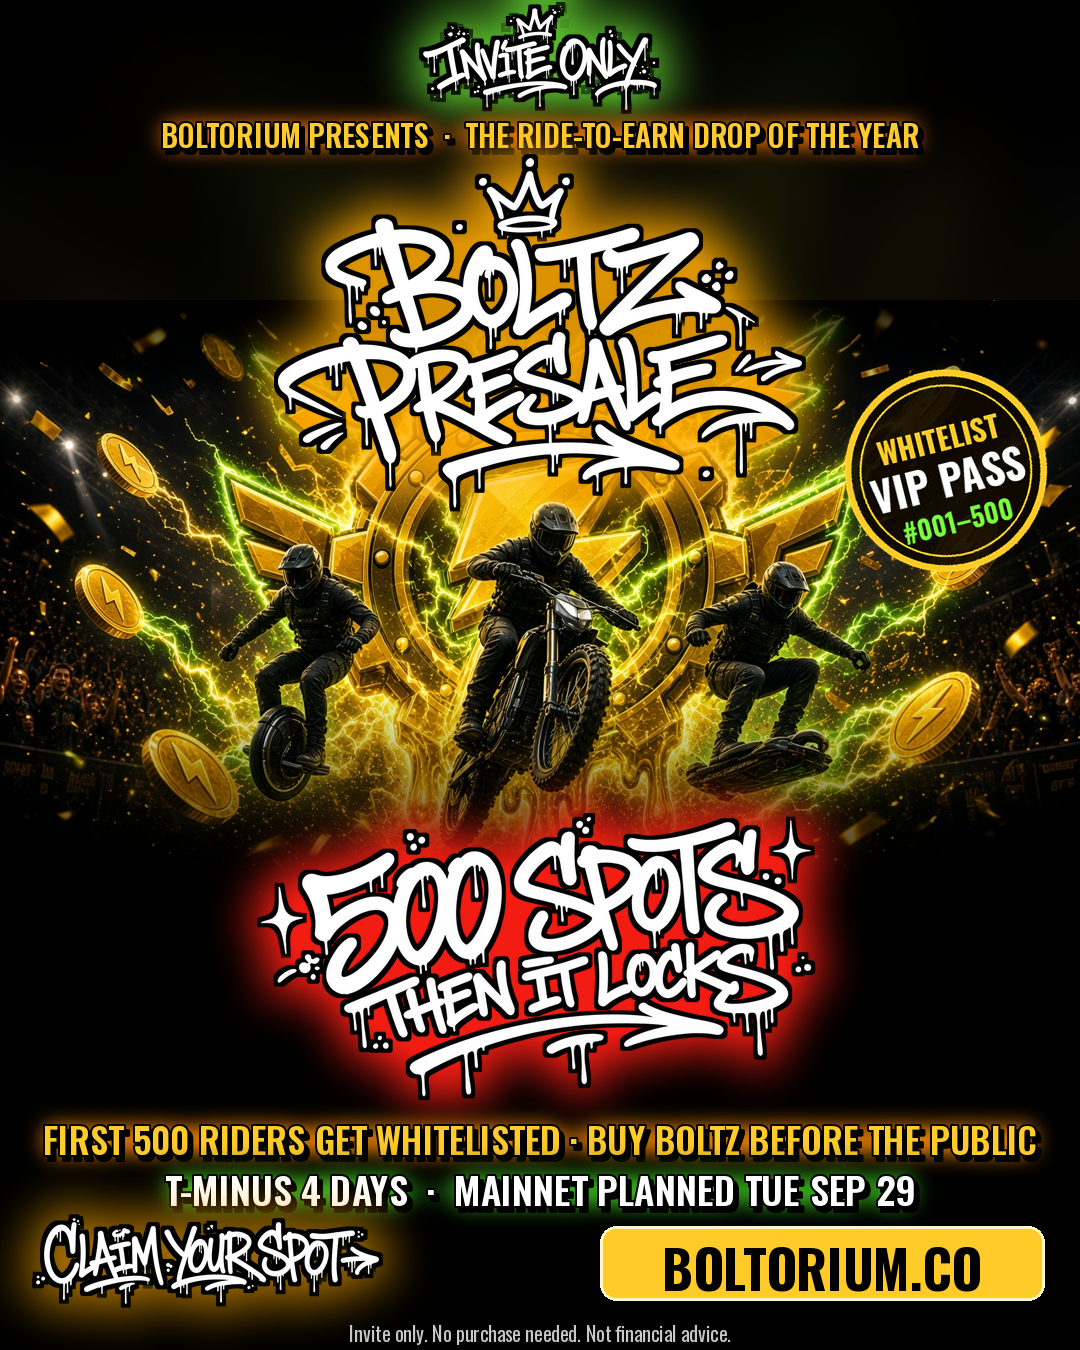
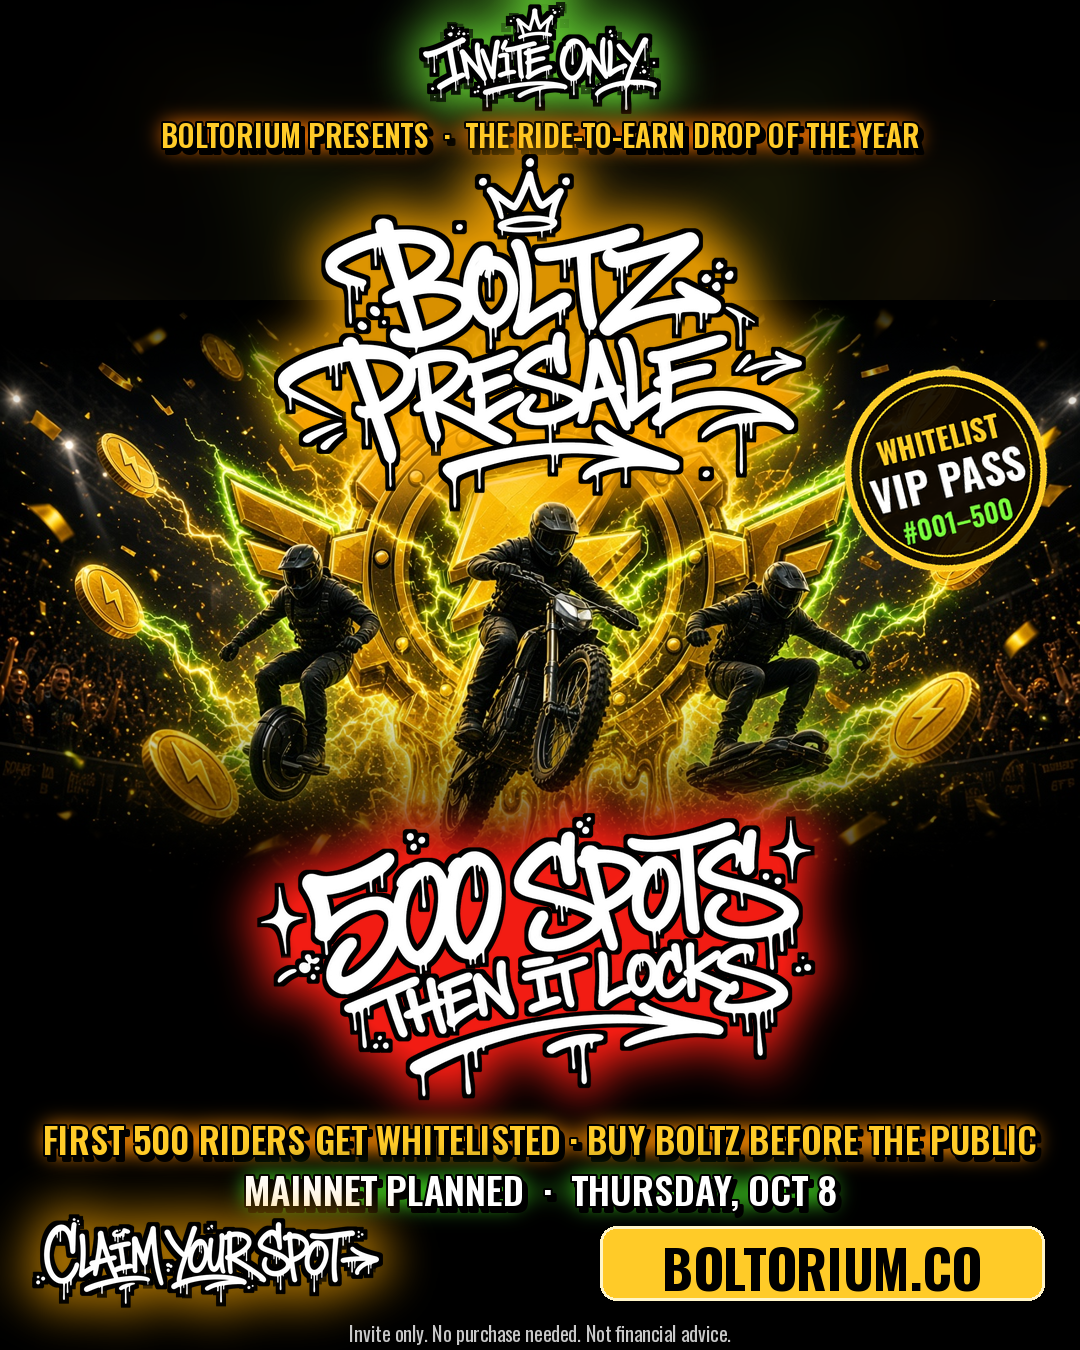
Presale poster: swap to Oct 8 art, regenerate webp, update alt text

Changed region(s): [[0.1528, 0.84, 0.8556, 0.9022]]

diff --git a/src/components/marketing/PresaleWhitelist.jsx b/src/components/marketing/PresaleWhitelist.jsx
@@ -20,7 +20,7 @@ export default function PresaleWhitelist() {
           <source srcSet={asset('presale/boltorium-presale-500-tags.webp')} type="image/webp" />
           <img
             src={asset('presale/boltorium-presale-500-tags.png')}
-            alt="Boltz presale whitelist poster: invite only, 500 spots then it locks, first 500 riders get whitelisted, mainnet planned Tue Sep 29"
+            alt="Boltz presale whitelist poster: invite only, 500 spots then it locks, first 500 riders get whitelisted, mainnet planned Thursday Oct 8"
             width="1080"
             height="1350"
             loading="eager"
